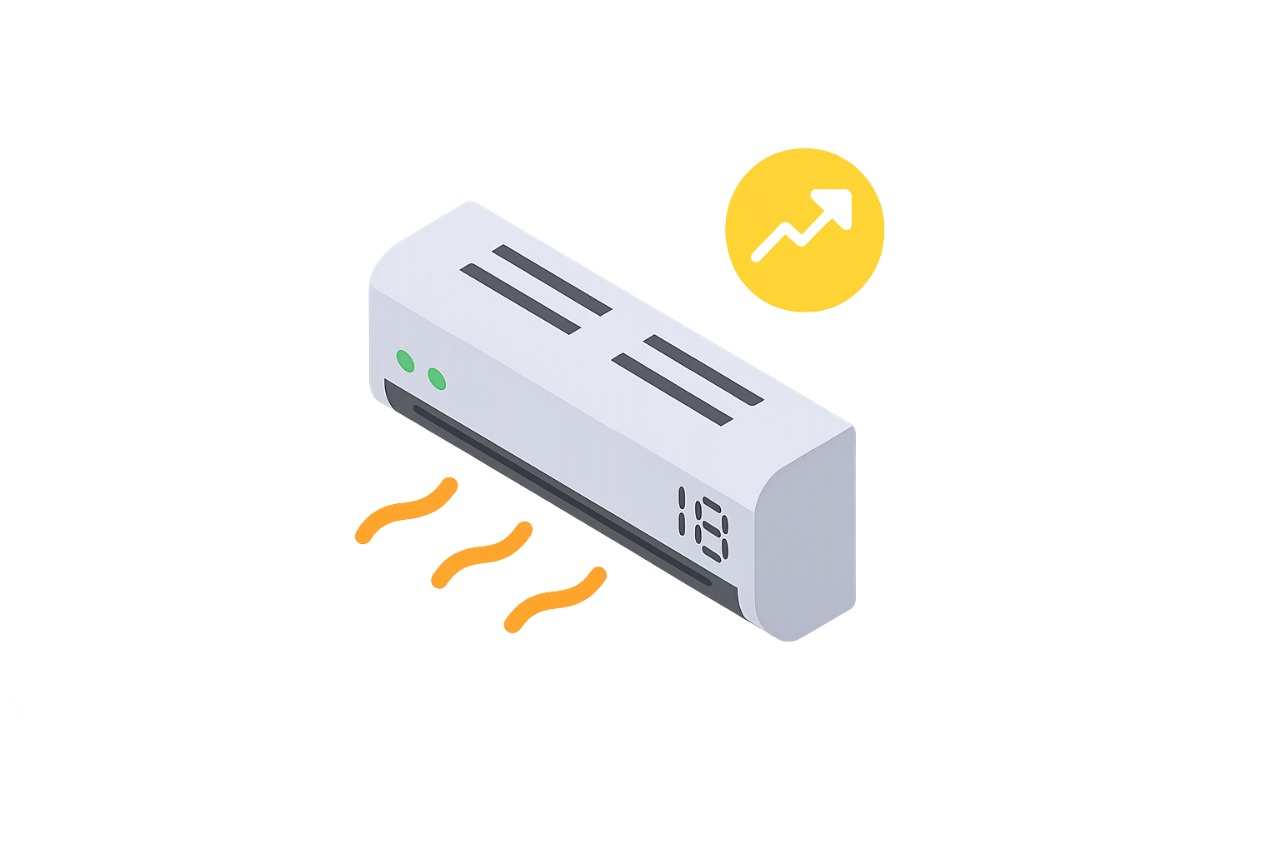
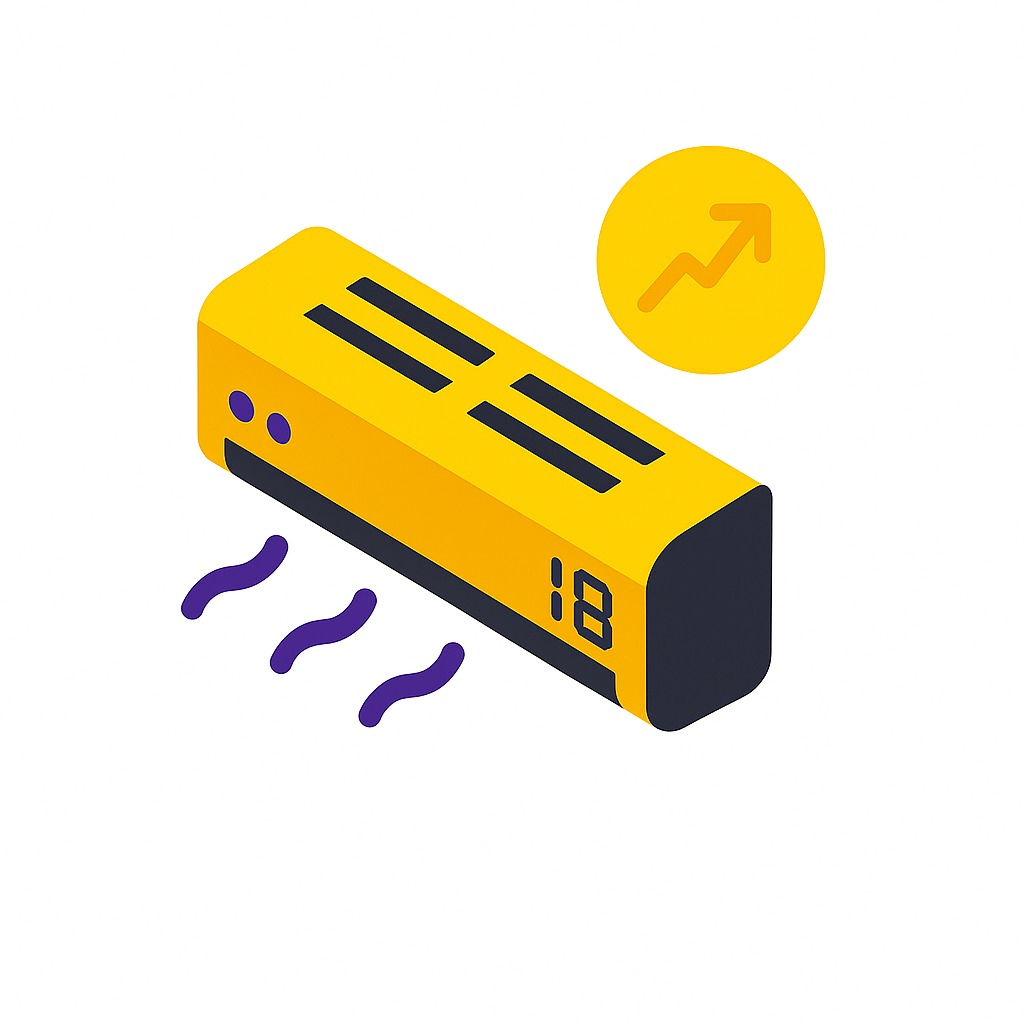
upated

Changed region(s): [[0.1875, 0.1219, 0.8125, 0.762], [0.1562, 0.5182, 0.2812, 0.6096]]

diff --git a/client-connected/src/components/Testimonials/index.jsx b/client-connected/src/components/Testimonials/index.jsx
@@ -5,78 +5,92 @@ const Testimonials = () => {
   const testimonials = [
     {
       id: 1,
-      content: "As a working professional, I struggle big time whenever my paid help is on leave. Snabbit's services have been a game changer. From dusting to bathroom cleaning, they take care of everything.",
+      content:
+        "As a working professional, I struggle big time whenever my paid help is on leave. Snabbit's services have been a game changer. From dusting to bathroom cleaning, they take care of everything.",
       author: "Sunny Gala",
       location: "Powai",
-      rating: 5
+      rating: 5,
+      image: "/images/testi1.jpg",
     },
     {
       id: 2,
-      content: "My regular house help doesn't clean fans or bathrooms, so I tried Snabbit. It's super convenient, and they pay attention to details my maid overlooks. I couldn't be happier!",
+      content:
+        "My regular house help doesn't clean fans or bathrooms, so I tried Snabbit. It's super convenient, and they pay attention to details my maid overlooks. I couldn't be happier!",
       author: "Priya Sharma",
       location: "Andheri",
-      rating: 5
-    },
-    // Add more testimonials as needed
-    {
-      id: 1,
-      content: "As a working professional, I struggle big time whenever my paid help is on leave. Snabbit's services have been a game changer. From dusting to bathroom cleaning, they take care of everything.",
-      author: "Sunny Gala",
-      location: "Powai",
-      rating: 5
+      rating: 5,
+      image: "/images/testi1.jpg",
     },
     {
-      id: 2,
-      content: "My regular house help doesn't clean fans or bathrooms, so I tried Snabbit. It's super convenient, and they pay attention to details my maid overlooks. I couldn't be happier!",
-      author: "Priya Sharma",
-      location: "Andheri",
-      rating: 5
+      id: 3,
+      content:
+        "Snabbit's weekly deep cleans have become a part of our routine now. They are professional, punctual, and do a thorough job every single time.",
+      author: "Ravi Menon",
+      location: "Koramangala",
+      rating: 5,
+      image: "/images/testi1.jpg",
     },
-    
+    {
+      id: 4,
+      content:
+        "Being a pet parent, cleanliness is everything. Snabbit understood our needs and delivered more than we expected. Highly recommended!",
+      author: "Neha Kapoor",
+      location: "Indiranagar",
+      rating: 5,
+      image: "/images/testi1.jpg",
+    },
   ];
 
   return (
     <section className="py-12 px-4">
       <div className="max-w-7xl mx-auto">
-        <h2 className="text-3xl font-bold text-center mb-12 text-gray-800">What Our Customers Say</h2>
-        
+        <h2 className="text-3xl font-bold text-center mb-12 text-gray-800">
+          What Our Customers Say
+        </h2>
+
         <div className="relative">
-          {/* Scrollable container */}
           <div className="overflow-x-auto pb-8 scrollbar-hide">
-            <div className="flex space-x-6 w-max px-4">
-              {testimonials.map((testimonial, index) => (
-                <motion.div 
-                  key={testimonial.id}
-                  className="w-80 flex-shrink-0 bg-white rounded-xl shadow-md overflow-hidden p-6"
-                  initial={{ opacity: 0, y: 20 }}
-                  animate={{ opacity: 1, y: 0 }}
-                  transition={{ delay: index * 0.1, duration: 0.5 }}
-                  whileHover={{ y: -5 }}
-                >
-                  <div className="flex mb-4">
-                    {[...Array(5)].map((_, i) => (
-                      <svg
-                        key={i}
-                        className={`w-5 h-5 ${i < testimonial.rating ? 'text-yellow-400' : 'text-gray-300'}`}
-                        fill="currentColor"
-                        viewBox="0 0 20 20"
-                      >
-                        <path d="M9.049 2.927c.3-.921 1.603-.921 1.902 0l1.07 3.292a1 1 0 00.95.69h3.462c.969 0 1.371 1.24.588 1.81l-2.8 2.034a1 1 0 00-.364 1.118l1.07 3.292c.3.921-.755 1.688-1.54 1.118l-2.8-2.034a1 1 0 00-1.175 0l-2.8 2.034c-.784.57-1.838-.197-1.539-1.118l1.07-3.292a1 1 0 00-.364-1.118l-2.8-2.034c-.783-.57-.38-1.81.588-1.81h3.461a1 1 0 00.951-.69l1.07-3.292z" />
-                      </svg>
-                    ))}
-                  </div>
-                  <p className="text-gray-600 mb-6">"{testimonial.content}"</p>
-                  <div className="flex items-center">
-                    <div className="bg-pink-500 rounded-full w-10 h-10 flex items-center justify-center text-white font-bold">
-                      {testimonial.author.charAt(0)}
+            <div className="flex space-x-6 w-max px-4 min-h-[500px] items-center">
+              {testimonials.map((testimonial, index) => {
+                const isFull = index % 2 === 0;
+                const heightClass = isFull ? 'h-[480px]' : 'h-[340px]';
+                
+
+                return (
+                  <motion.div
+                    key={testimonial.id + index}
+                    className={`relative w-80 ${heightClass} flex-shrink-0 rounded-3xl overflow-hidden shadow-lg flex ${isFull ? 'items-end' : 'items-center'}`}
+                    initial={{ opacity: 0, y: 20 }}
+                    animate={{ opacity: 1, y: 0 }}
+                    transition={{ delay: index * 0.1, duration: 0.5 }}
+                    whileHover={{ y: -5 }}
+                  >
+                    {/* Background Image */}
+                    <img
+                      src={testimonial.image}
+                      alt={testimonial.author}
+                      className="absolute inset-0 w-full h-full object-cover"
+                    />
+
+                    {/* Overlay Card */}
+                    <div className="relative z-10 w-full px-4 pb-4">
+                      <div className="bg-white/95 backdrop-blur rounded-2xl p-4 shadow-md">
+                        <p className="text-sm text-[#3f0018] font-medium mb-3 leading-snug">
+                          {testimonial.content}
+                        </p>
+                        <div className="flex justify-between items-center">
+                          <p className="font-bold text-[#3f0018]">
+                            {testimonial.author}
+                          </p>
+                          <span className="bg-[#f5f5f5] px-3 py-1 rounded-full text-xs font-semibold text-gray-700">
+                            {testimonial.location}
+                          </span>
+                        </div>
+                      </div>
                     </div>
-                    <div className="ml-3">
-                      <p className="font-semibold text-gray-800">{testimonial.author}</p>
-                      <p className="text-sm text-gray-500">{testimonial.location}</p>
-                    </div>
-                  </div>
-                </motion.div>
-              ))}
+                  </motion.div>
+                );
+              })}
             </div>
           </div>
         </div>

diff --git a/client-connected/src/pages/ServiceGrid/index.jsx b/client-connected/src/pages/ServiceGrid/index.jsx
@@ -244,47 +244,50 @@ const ServiceGrid = () => {
 
   return (
     <div className="p-4">
-      <div className="grid grid-cols-3 gap-4">
-  {services.map((service) => (
-    <div
-      key={service.id}
-      className="flex flex-col items-center p-3 rounded-xl bg-[#f9f9f9] shadow-sm transition-all cursor-pointer"
-      onClick={() => {
-        if (service.name === "Pest Control") {
-          setShowPestModal(true);
-        } else if (service.name === "Deep Cleaning") {
-          setShowDeepCleanModal(true);
-        } else if (service.name === "Scrap") {
-          setShowScrapModal(true);
-        } else if (service.name === "Mosquito & Safety Net") {
-          setShowMosquitoNetModal(true);
-        } else {
-          setSelectedService(service);
-        }
-      }}
-    >
-      <img
-        src={service.image}
-        alt={service.name}
-        className="w-14 h-14 object-contain"
-      />
-      <span className="text-xs font-medium text-gray-800 text-center mt-2">
-        {service.name}
-      </span>
-    </div>
-  ))}
+      <div className="border border-gray-300 rounded-xl p-4 bg-white shadow-md">
+        <div className="grid grid-cols-3 gap-4">
+          {services.map((service) => (
+            <div
+              key={service.id}
+              className="flex flex-col items-center p-3 rounded-xl bg-[#f9f9f9] shadow-sm transition-all cursor-pointer"
+              onClick={() => {
+                if (service.name === "Pest Control") {
+                  setShowPestModal(true);
+                } else if (service.name === "Deep Cleaning") {
+                  setShowDeepCleanModal(true);
+                } else if (service.name === "Scrap") {
+                  setShowScrapModal(true);
+                } else if (service.name === "Mosquito & Safety Net") {
+                  setShowMosquitoNetModal(true);
+                } else {
+                  setSelectedService(service);
+                }
+              }}
+            >
+              <div className="">
+                <img
+                  src={service.image}
+                  alt={service.name}
+                  className="w-18 h-16 object-contain"
+                />
+              </div>
+              <span className="text-xs font-medium text-gray-800 text-center mt-2">
+                {service.name}
+              </span>
+            </div>
+          ))}
 
-  {/* See All Card */}
-  <div className="flex flex-col items-center p-3 rounded-xl bg-[#f9f9f9] hover:bg-[#f0f0f0] shadow-sm transition-all cursor-pointer">
-    <div className="w-12 h-12 flex items-center justify-center">
-      <FaEllipsisH className="text-gray-500 text-lg" />
-    </div>
-    <span className="text-xs font-medium text-gray-800 text-center mt-2">
-      See All
-    </span>
-  </div>
-</div>
-
+          {/* See All Card */}
+          <div className="flex flex-col items-center p-3 rounded-xl bg-[#f9f9f9] hover:bg-[#f0f0f0] shadow-sm transition-all cursor-pointer">
+            <div className="w-12 h-12 flex items-center justify-center">
+              <FaEllipsisH className="text-gray-500 text-lg" />
+            </div>
+            <span className="text-xs font-medium text-gray-800 text-center mt-2">
+              See All
+            </span>
+          </div>
+        </div>
+      </div>
 
       {/* Main Modal */}
       {selectedService && (

diff --git a/client-connected/src/pages/Homescreen/newhome.jsx b/client-connected/src/pages/Homescreen/newhome.jsx
@@ -610,9 +610,9 @@ const HomePage = () => {
           <WhyChooseHommlie />
         </section> */}
 
-      {/* <section className="px-10 py-10">
+      <section className="px-10 py-10">
         <Testimonials />
-      </section> */}
+      </section>
 
       {/* inspection form section */}
       <section id="inspection-section" className="px-4 py-5 md:py-10">
